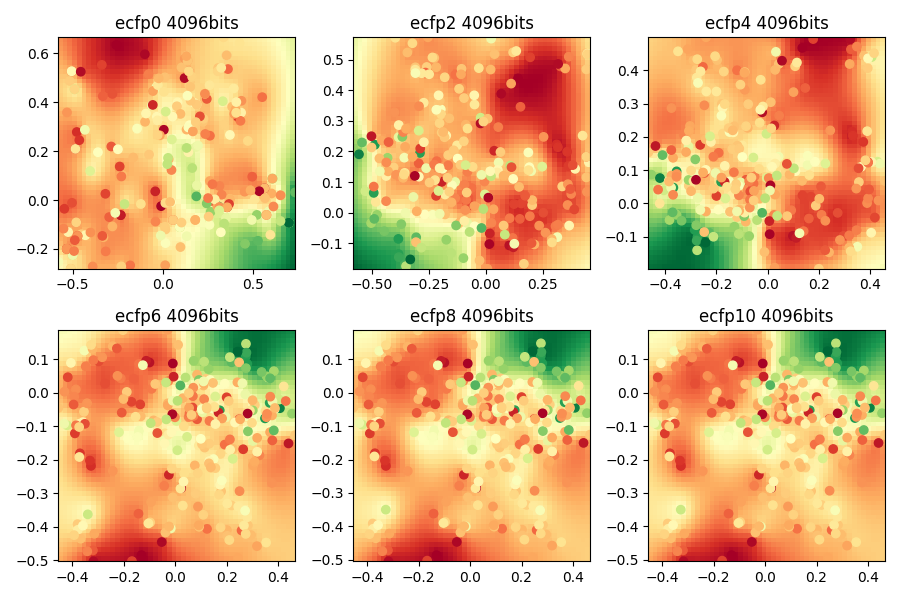
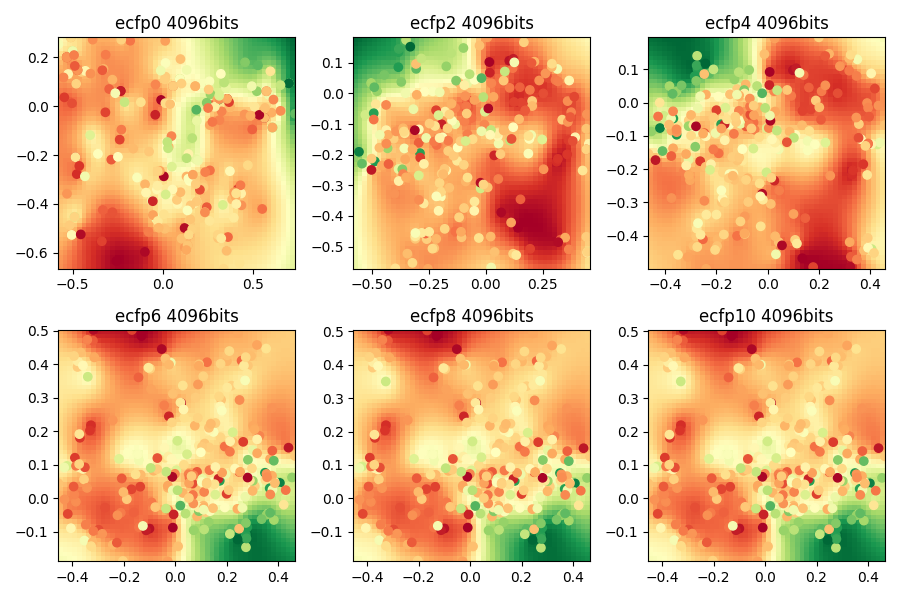
changed to use pca.py PCA class in fp.py.

diff --git a/fp.py b/fp.py
@@ -3,21 +3,13 @@ import pandas as pd
 import matplotlib.pyplot as plt
 import scipy.interpolate
 from sklearn import preprocessing
+import sklearn.decomposition
 from rdkit import Chem
 from rdkit.Chem import AllChem
 import argparse
 import timeit
 
-def pca(X, npc=2):
-    # calculate eigenvalues(l) and eigenvectors(w) of the covariance matrix
-    C = np.cov(X.T)
-    l,w = np.linalg.eig(C)
-
-    # sort eigenvectors by eigenvalue in descending order
-    w = w[:,np.argsort(l)[::-1]]
-    # T = X*W
-    pc = np.dot(X, w[:,:npc])
-    return pc
+from pca import PCA
 
 def fp_mds(args, radius):
     fps = []
@@ -39,7 +31,9 @@ def fp_mds(args, radius):
     mat = preprocessing.normalize(mat)
 
     start_time = timeit.default_timer()
-    pcs = np.real(pca(mat, npc=2))
+    pcs = np.real(PCA(mat, npc=2, method='eig').pc())
+    #pcs = sklearn.decomposition.PCA(n_components=2, svd_solver='full').fit_transform(mat)
+    #pcs = sklearn.decomposition.PCA(n_components=2, svd_solver='randomized').fit_transform(mat)
     print('radius %2d matrix shape %s %6.3fsec' % (radius, mat.shape, timeit.default_timer() - start_time))
 
     # Set up a regular grid of interpolation points

diff --git a/pca.py b/pca.py
@@ -35,7 +35,7 @@ class PCA:
     def eig(self):
         # calculate eigenvalues(l) and eigenvectors(w) of the covariance matrix
         C = np.cov(self.df.T)
-        self.l,self.w = np.linalg.eig(C)
+        self.l, self.w = np.linalg.eig(C)
 
         # sort eigenvectors by eigenvalue in descending order
         self.w = self.w[:, np.argsort(self.l)[::-1]]
